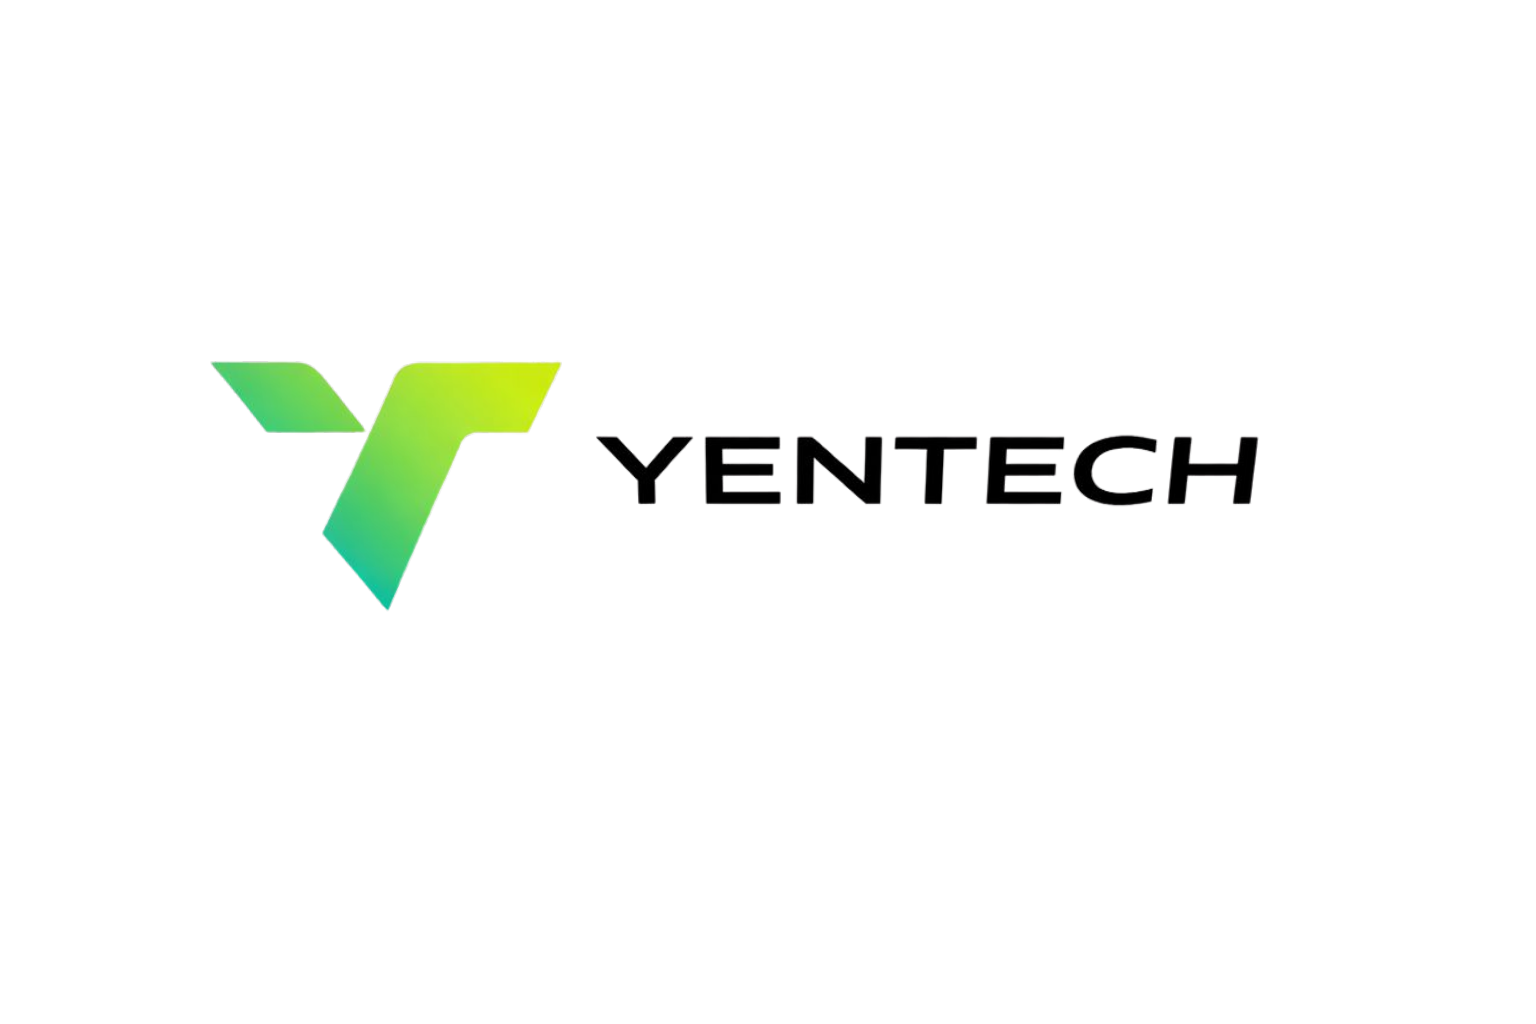
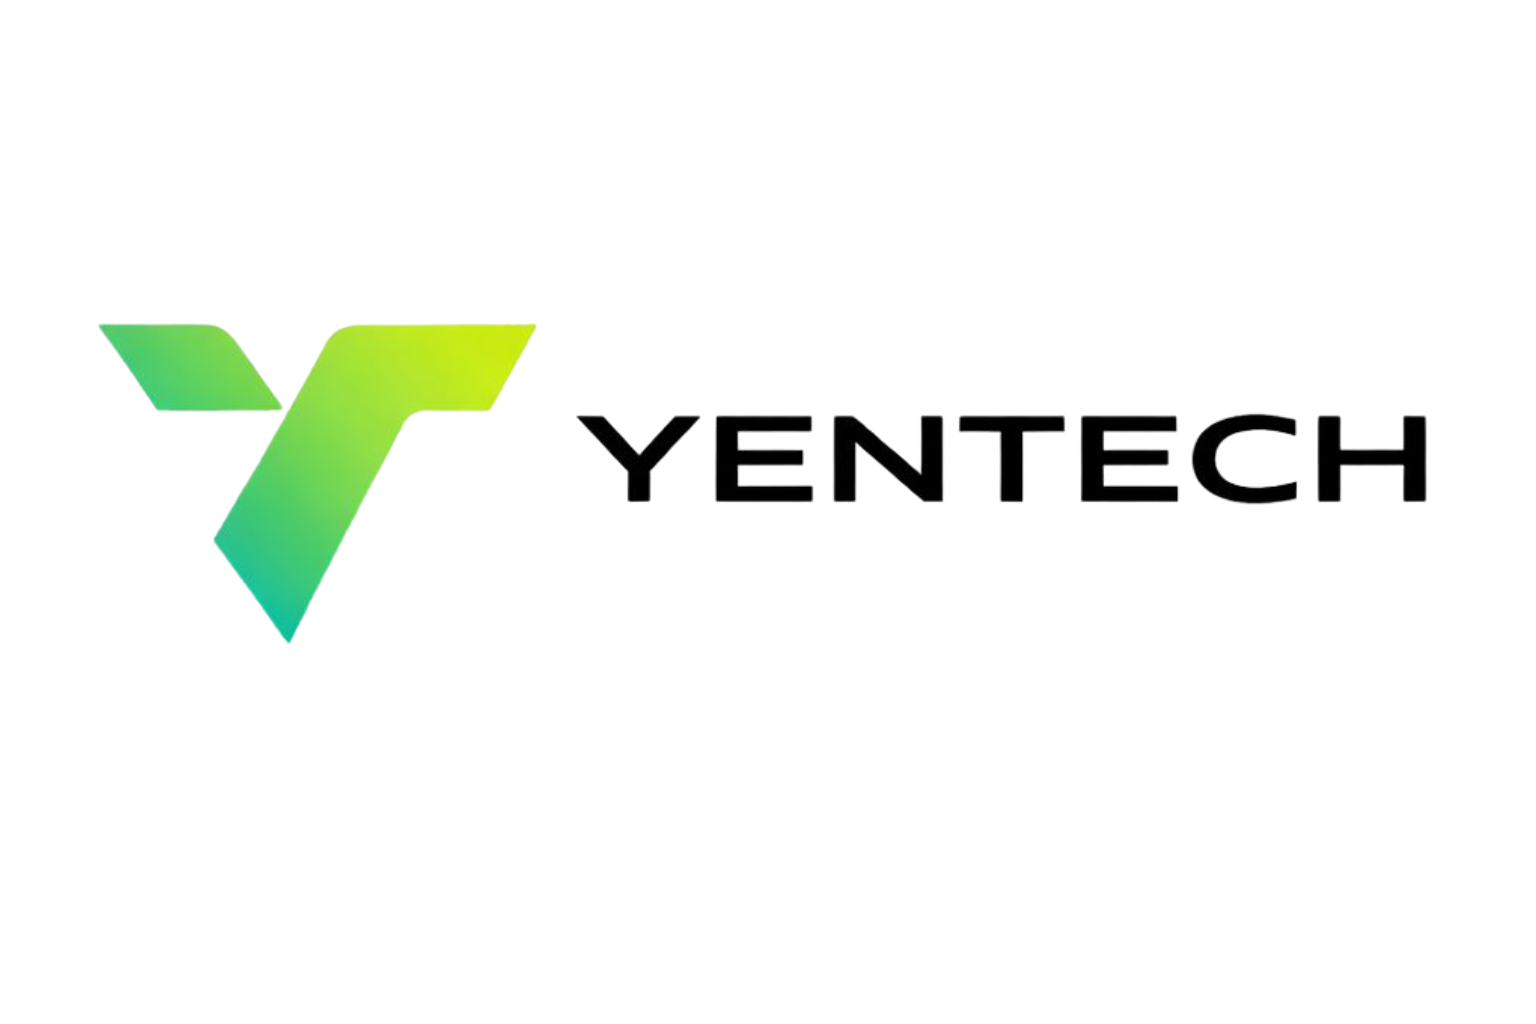
add Sponsors component and yentech brand asset

Changed region(s): [[0.0625, 0.3125, 0.375, 0.625], [0.375, 0.4062, 0.9375, 0.5]]

diff --git a/projectsankalp/src/components/sections/Sponsors.jsx b/projectsankalp/src/components/sections/Sponsors.jsx
@@ -8,31 +8,26 @@ export default function Sponsors() {
     { 
       name: "NSS Unit", 
       logo: "/nsslogo.png",
-      tier: "Lead Partner",
       description: "Service through leadership and social impact."
     },
     { 
       name: "Yenepoya University", 
       logo: "/ysetlogo.png",
-      tier: "Organising Partner",
       description: "Center for academic excellence and innovation."
     },
     {
       name:"IIC",
       logo:"/IIC.png",
-      tier:"Part of hackathon",
       description: "YenTech,IIC"
     },
     {
       name:"Yentech",
       logo:"yentech.png",
-      tier:"Techincal partner",
       description:"Prestigious Technical Club of YSET"
     },
     {
       name:"Ministry of Youth Affairs and Sports",
       logo:"MYAA.png",
-      tier:"Part of the Sponsor",
       description:"Empowering the next generation of innovators and showcasing those talents."
     }
   ];
@@ -98,10 +93,8 @@ export default function Sponsors() {
                 </div>
                 
                 <div className="space-y-2">
-                  <span className="text-[10px] font-black uppercase tracking-[0.3em] text-emerald-600 bg-emerald-50 px-4 py-1.5 rounded-full">
-                    {sponsor.tier}
-                  </span>
-                  <h3 className="text-xl font-bold text-slate-900">{sponsor.name}</h3>
+                  
+                  <h3 className="text-xl italic text-slate-900 mt-4">{sponsor.name}</h3>
                   <p className="text-sm text-slate-500 font-medium">{sponsor.description}</p>
                 </div>
               </div>